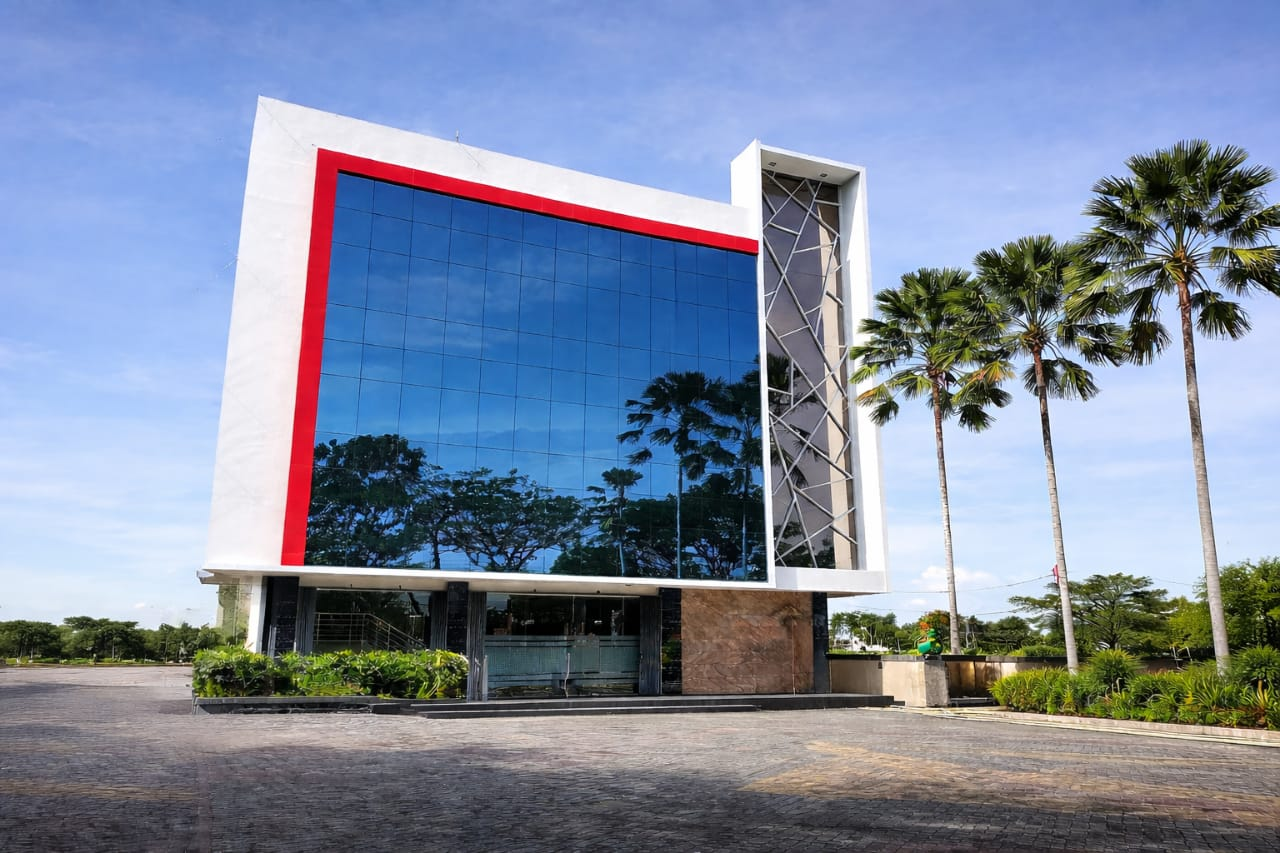
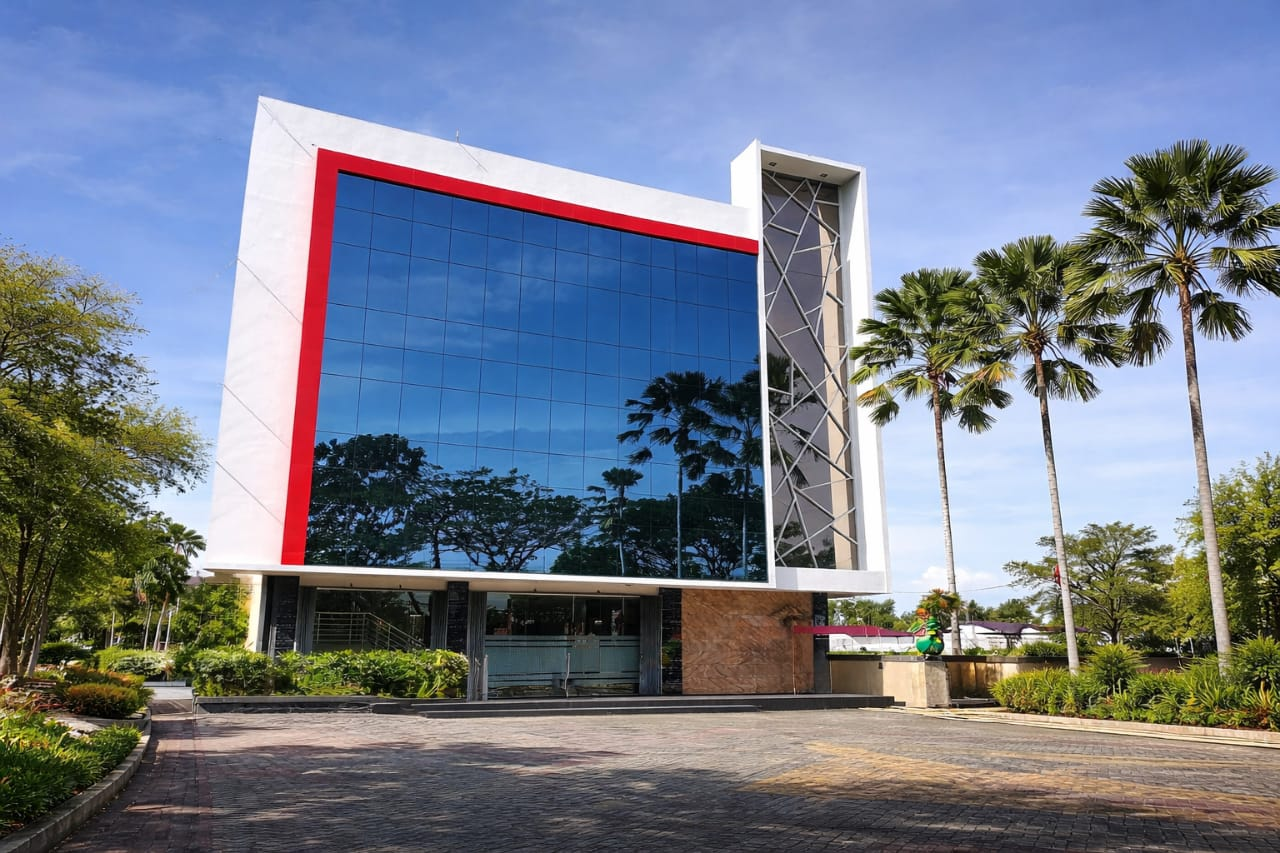
update anak perusahaaan

diff --git a/client/src/components/SubsidiaryOne.css b/client/src/components/SubsidiaryOne.css
@@ -213,7 +213,7 @@
 
 .vision-content {
     display: grid;
-    grid-template-columns: 1fr 400px;
+    grid-template-columns: 400px 1fr; /* gambar kiri, teks kanan */
     gap: 60px;
     align-items: center;
     max-width: 900px;
@@ -221,15 +221,16 @@
 }
 
 .vision-text {
-    order: 1;
+    order: 2;
 }
 
 .vision-shape {
-    order: 2;
+    order: 1;
     width: 100%;
-    height: 280px;
-    background: #c41e3a;
-    border-radius: 0 50% 0 50%;
+    aspect-ratio: 1 / 1;
+    height: auto;
+    background: url('../assets/images/visibrp.png') center/cover no-repeat;
+    border-radius: 12px; /* ditambah */
     box-shadow: 0 10px 30px rgba(196, 30, 58, 0.3);
 }
 
@@ -256,9 +257,10 @@
 .mission-shape {
     order: 1;
     width: 100%;
-    height: 280px;
-    background: #c41e3a;
-    border-radius: 50% 0 50% 0;
+    aspect-ratio: 1 / 1;
+    height: auto;
+    background: url('../assets/images/visibrp.png') center/cover no-repeat;
+    border-radius: 12px; /* ditambah */
     box-shadow: 0 10px 30px rgba(196, 30, 58, 0.3);
 }
 

diff --git a/client/src/components/SubsidiaryTwo.css b/client/src/components/SubsidiaryTwo.css
@@ -214,7 +214,7 @@
 
 .vision-content {
     display: grid;
-    grid-template-columns: 1fr 400px;
+    grid-template-columns: 400px 1fr; /* gambar kiri, teks kanan */
     gap: 60px;
     align-items: center;
     max-width: 900px;
@@ -222,15 +222,16 @@
 }
 
 .vision-text {
-    order: 1;
+    order: 2;
 }
 
 .vision-shape {
-    order: 2;
+    order: 1;
     width: 100%;
-    height: 280px;
-    background: #c41e3a;
-    border-radius: 0 50% 0 50%;
+    aspect-ratio: 1 / 1;
+    height: auto;
+    background: url('../assets/images/visibrp.png') center/cover no-repeat;
+    border-radius: 12px; /* ditambah */
     box-shadow: 0 10px 30px rgba(196, 30, 58, 0.3);
 }
 
@@ -257,9 +258,10 @@
 .mission-shape {
     order: 1;
     width: 100%;
-    height: 280px;
-    background: #c41e3a;
-    border-radius: 50% 0 50% 0;
+    aspect-ratio: 1 / 1;
+    height: auto;
+    background: url('../assets/images/visibrp.png') center/cover no-repeat;
+    border-radius: 12px; /* ditambah */
     box-shadow: 0 10px 30px rgba(196, 30, 58, 0.3);
 }
 

diff --git a/client/src/components/SubsidiaryOne.jsx b/client/src/components/SubsidiaryOne.jsx
@@ -79,8 +79,7 @@ const SubsidiaryOne = () => {
                                     <div className="vision-content">
                                         <div className="vision-text">
                                             <p>
-                                                Menjadi perusahaan pengembang properti terpercaya dan terdepan dalam menciptakan kawasan 
-                                                hunian dan komersial yang berkualitas, inovatif, serta berkelanjutan di Indonesia.
+                                                menjadi slah satu pengembang (developer) property terbaik dikalimantan barat dan terpercaya mampu bersaing di tingkat nasional sesuai kelas nya.
                                             </p>
                                         </div>
                                         <div className="vision-shape"></div>

diff --git a/client/src/components/LandingPage.jsx b/client/src/components/LandingPage.jsx
@@ -2,9 +2,9 @@ import React, { useEffect } from 'react';
 import { useNavigate } from 'react-router-dom';
 import './LandingPage.css';
 import heroBgsatu from '../assets/images/bg-1.jpeg';
-import heroBgdua from '../assets/images/bg-2.jpeg';
-import heroBgtiga from '../assets/images/homedua.png';
-import heroBgempat from '../assets/images/hometiga.png';
+import heroBgdua from '../assets/images/bg-3.jpeg';
+import heroBgtiga from '../assets/images/bg-2.jpeg';
+import heroBgempat from '../assets/images/bg-4.jpeg';
 import logoHotampt from '../assets/images/logoitampt.png'; // ADD
 
 const LandingPage = () => {

diff --git a/client/src/components/Properties.jsx b/client/src/components/Properties.jsx
@@ -2,7 +2,7 @@ import React, { useEffect, useMemo, useRef, useState } from 'react';
 import axios from 'axios';
 import PropertyDetail from './PropertyDetail';
 import '../styles/Properties.css';
-import propertiesHeroImage from '../assets/images/hero-bg.png';
+import propertiesHeroImage from '../assets/images/properti-bg.jpeg';
 import btnLogo from '../assets/images/btnlogo.png';
 import btnsyariahLogo from '../assets/images/btnsyariahlogo.png';
 import mandiriLogo from '../assets/images/mandirilogo.png';
